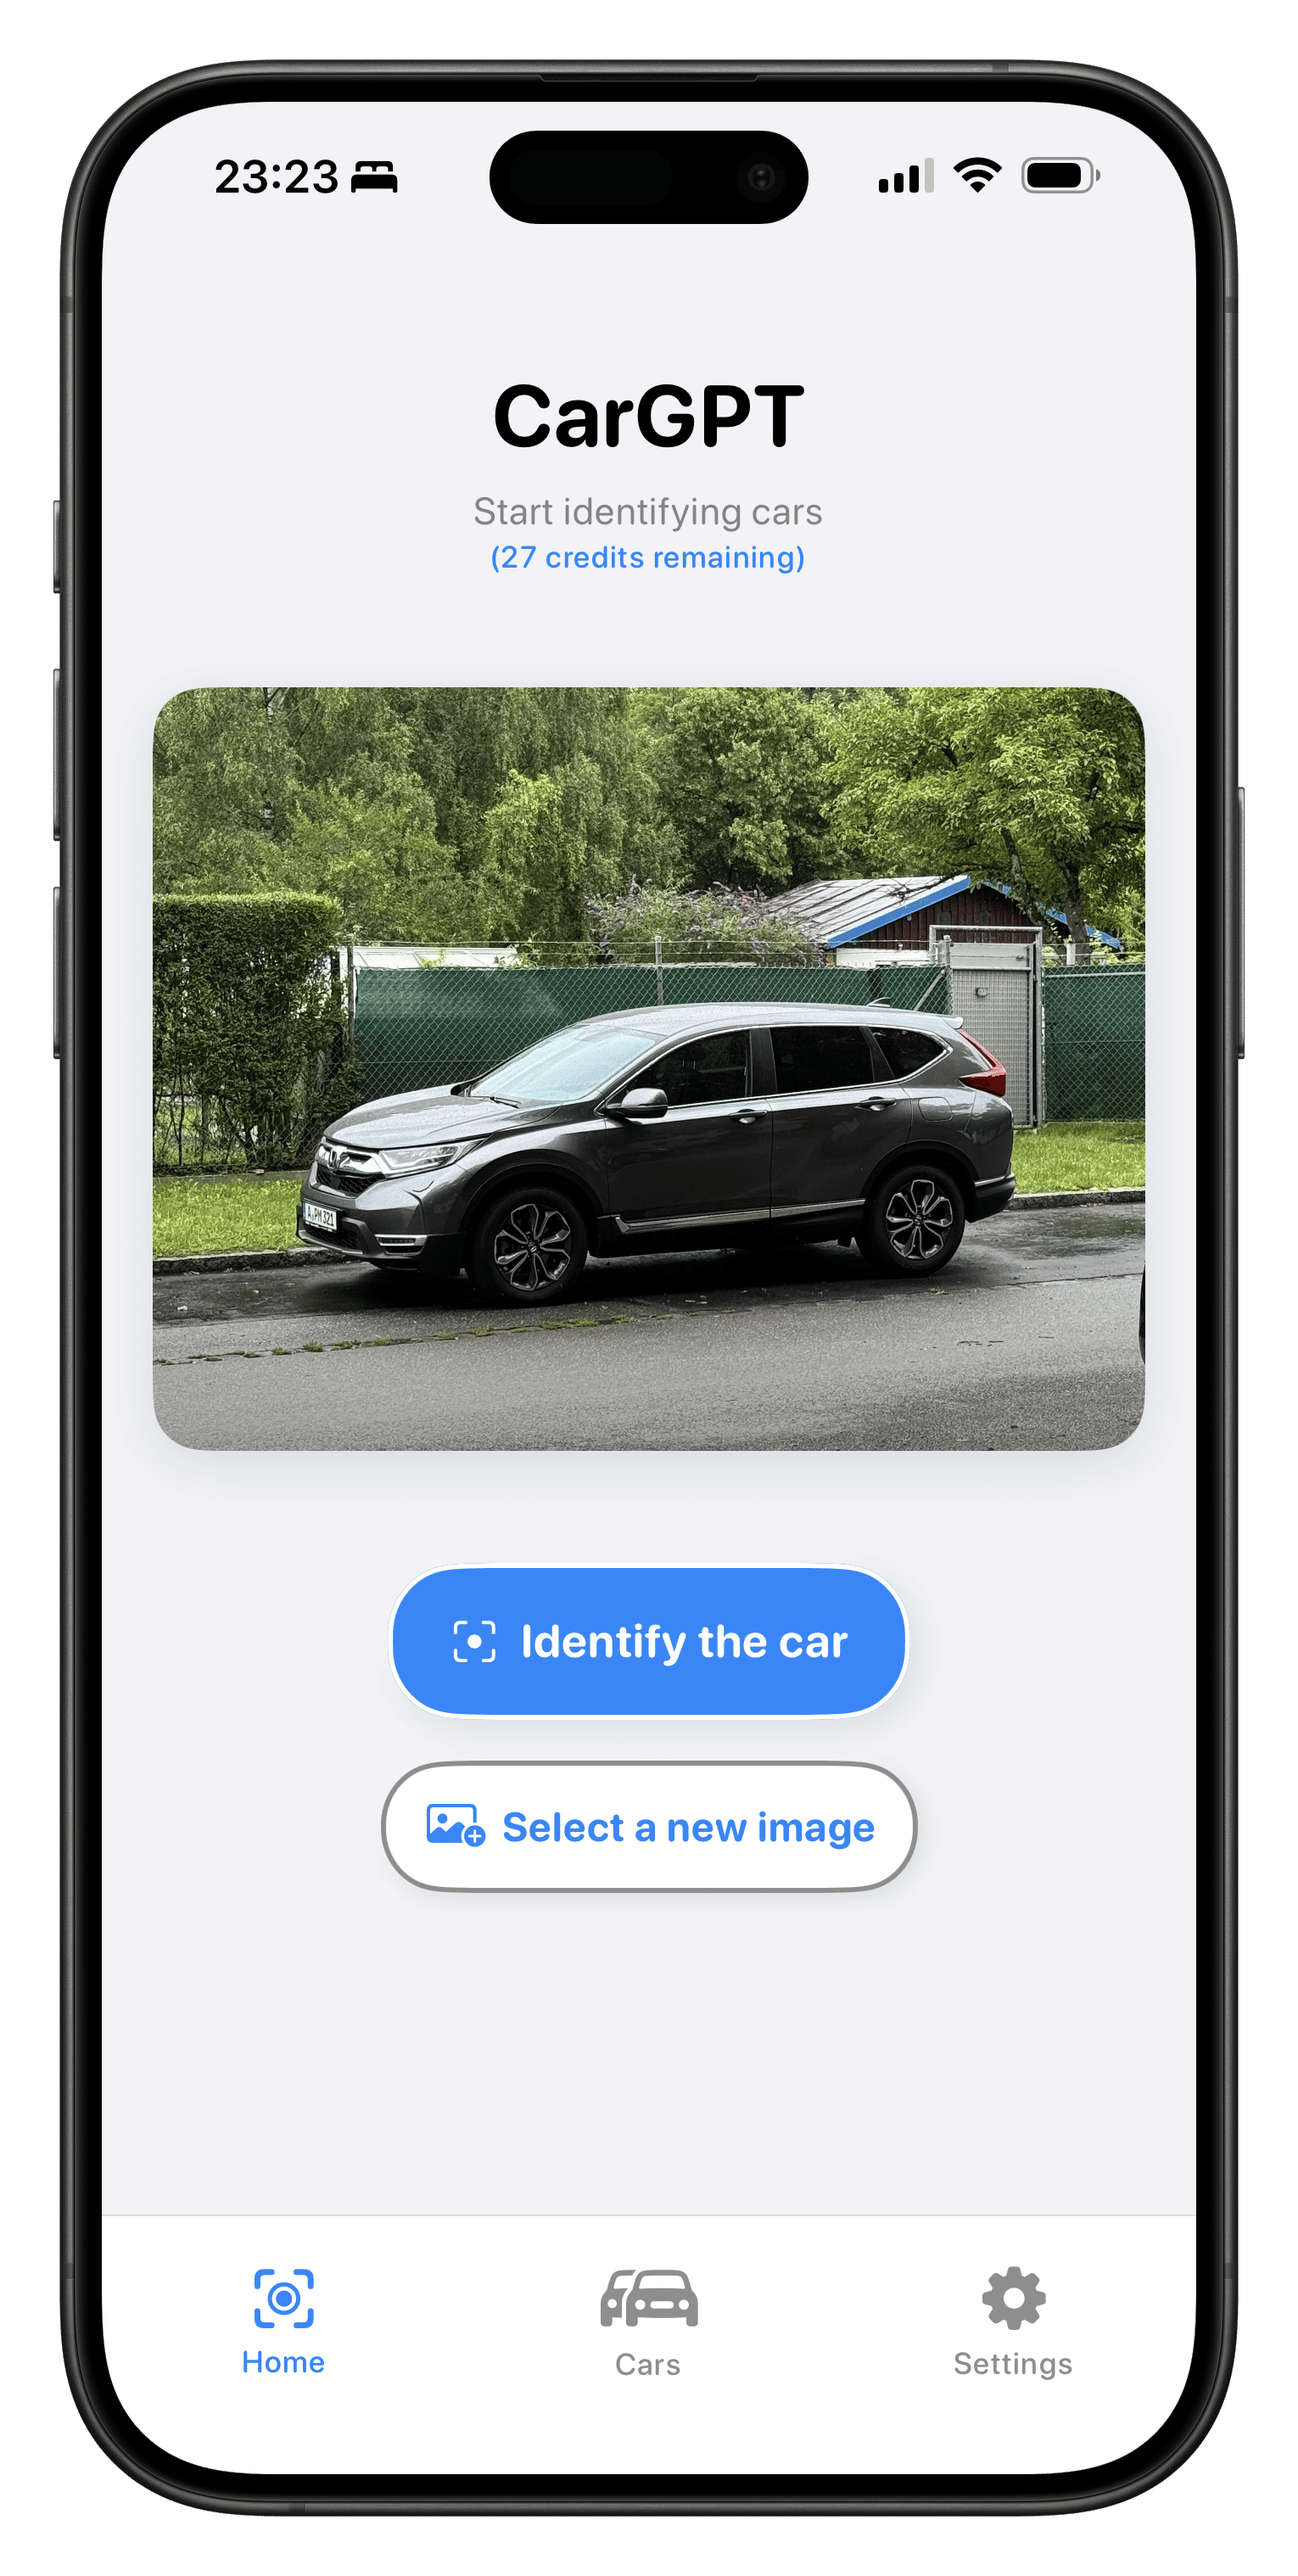
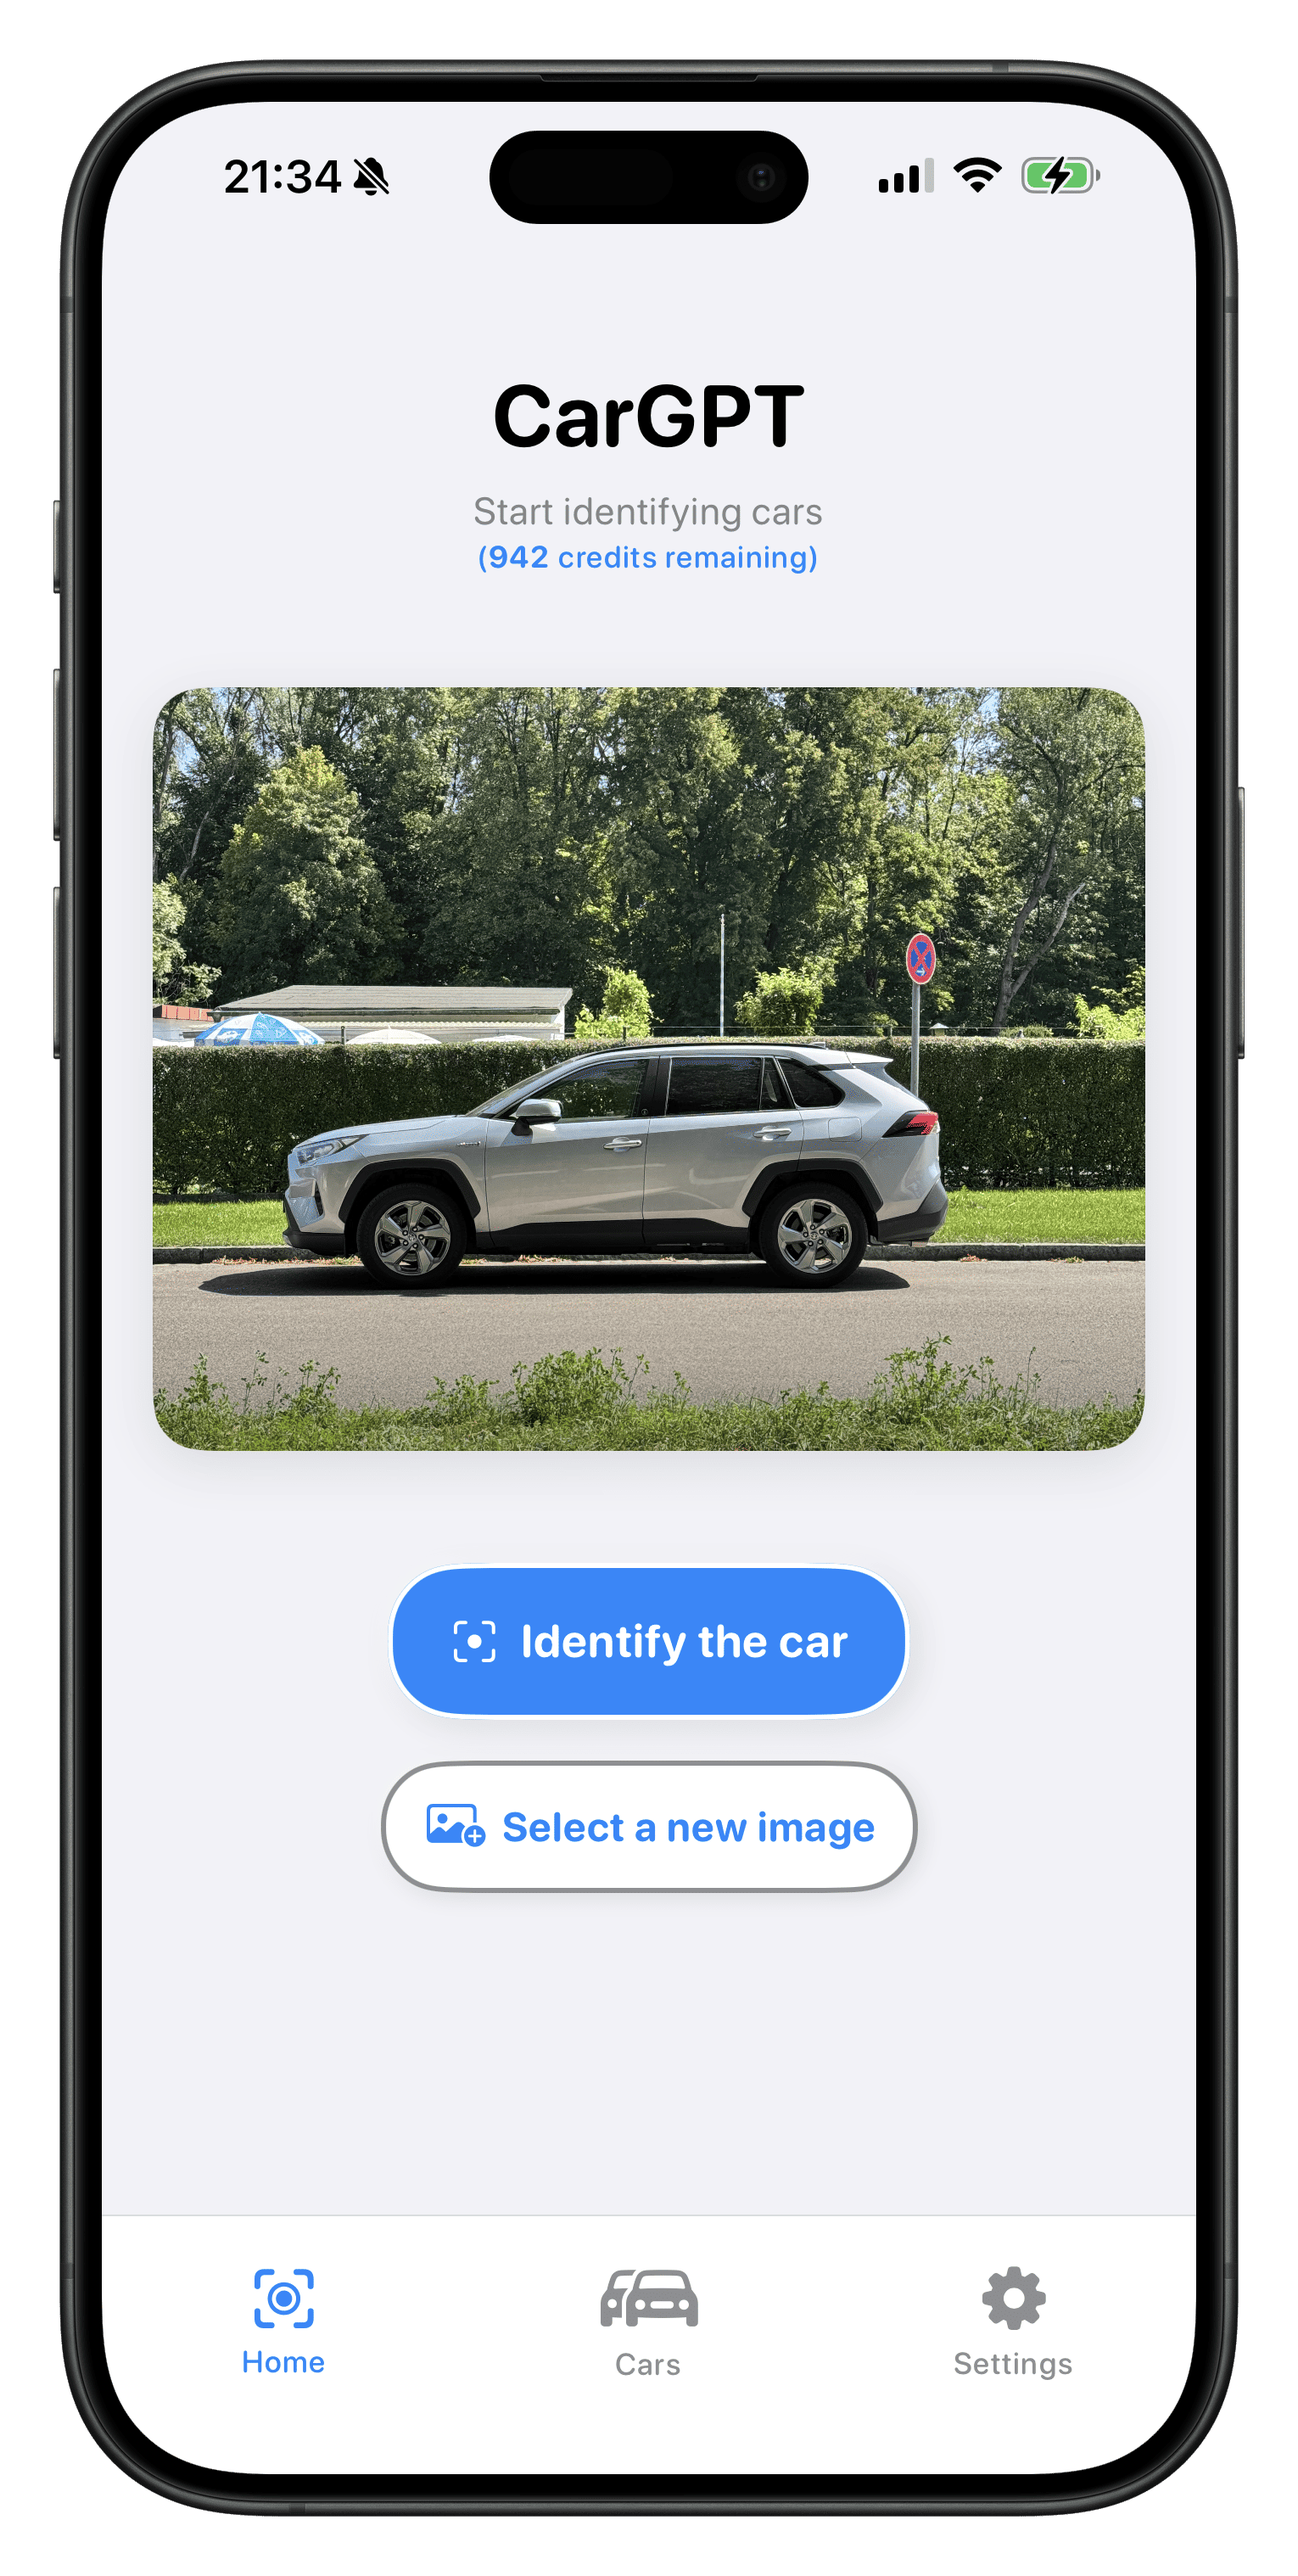
Comment out pricing section in index.html for future reference; update binary assets for phone images.

Changed region(s): [[0.0922, 0.2167, 0.8908, 0.5883], [0.1536, 0.0619, 0.3072, 0.0929], [0.7987, 0.0619, 0.8294, 0.0929]]

diff --git a/index.html b/index.html
@@ -173,34 +173,30 @@
   </section>
 
   <!-- Pricing Section -->
-  <section class="bg-white py-16">
+  <!-- <section class="bg-white py-16">
     <div class="max-w-4xl mx-auto px-4">
       <h2 class="text-3xl font-bold text-center mb-4 asap-navbar-logo">Simple One-Time Credits</h2>
       <p class="text-lg text-gray-600 text-center mb-12 max-w-3xl mx-auto">Only pay for what you need. No subscriptions. No ads.</p>
       
       <div class="grid md:grid-cols-2 lg:grid-cols-4 gap-6">
-        <!-- 50 Credits -->
         <div class="bg-gray-50 rounded-xl p-6 text-center border-2 border-gray-200 transition-colors">
           <div class="text-3xl font-bold text-gray-800 mb-2">50 Credits</div>
           <div class="text-2xl font-bold text-blue-400 mb-4">$1.99</div>
           <p class="text-gray-600 text-sm">Perfect for occasional use</p>
         </div>
 
-        <!-- 100 Credits -->
         <div class="bg-gray-50 rounded-xl p-6 text-center border-2 border-gray-200 transition-colors">
           <div class="text-3xl font-bold text-gray-800 mb-2">100 Credits</div>
           <div class="text-2xl font-bold text-blue-400 mb-4">$2.99</div>
           <p class="text-gray-600 text-sm">Most popular choice</p>
         </div>
 
-        <!-- 500 Credits -->
         <div class="bg-gray-50 rounded-xl p-6 text-center border-2 border-gray-200 transition-colors">
           <div class="text-3xl font-bold text-gray-800 mb-2">500 Credits</div>
           <div class="text-2xl font-bold text-blue-400 mb-4">$9.99</div>
           <p class="text-gray-600 text-sm">Great value for enthusiasts</p>
         </div>
 
-        <!-- 1000 Credits -->
         <div class="bg-gray-50 rounded-xl p-6 text-center border-2 border-gray-200 transition-colors">
           <div class="text-3xl font-bold text-gray-800 mb-2">1000 Credits</div>
           <div class="text-2xl font-bold text-blue-400 mb-4">$17.99</div>
@@ -208,7 +204,7 @@
         </div>
       </div>
     </div>
-  </section>
+  </section> -->
 
   <!-- Testimonials Section -->
   <section class="bg-gray-50 py-12">
